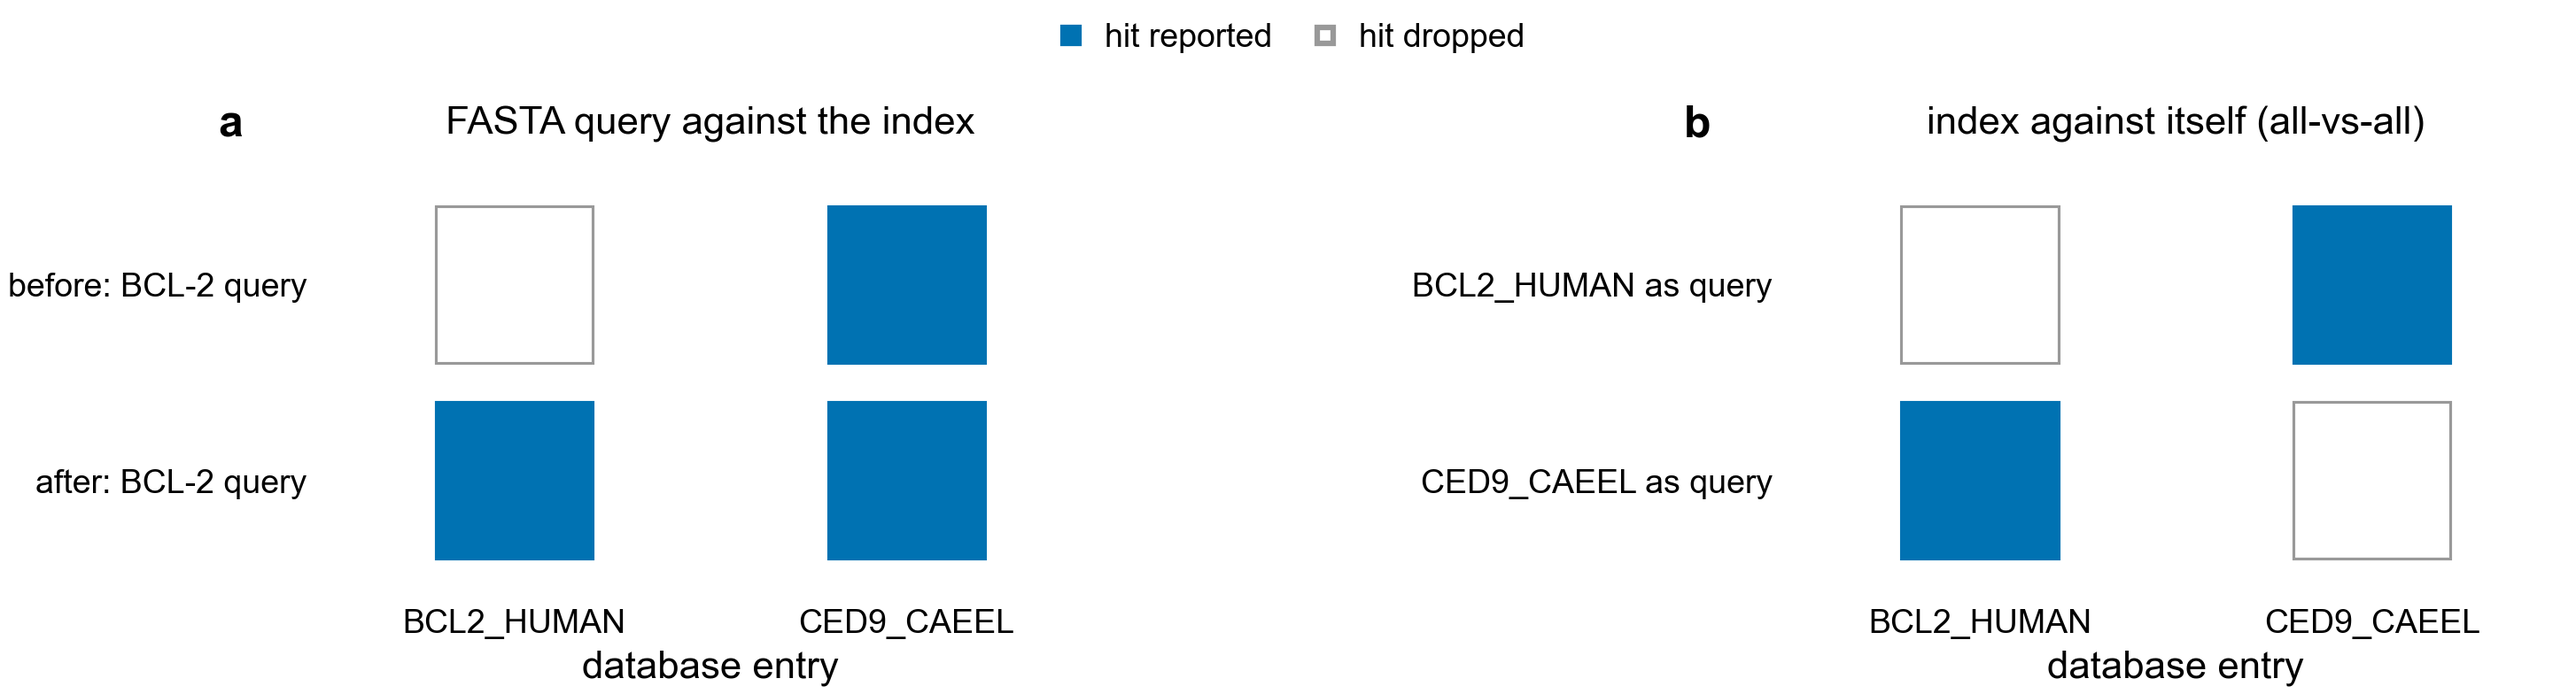
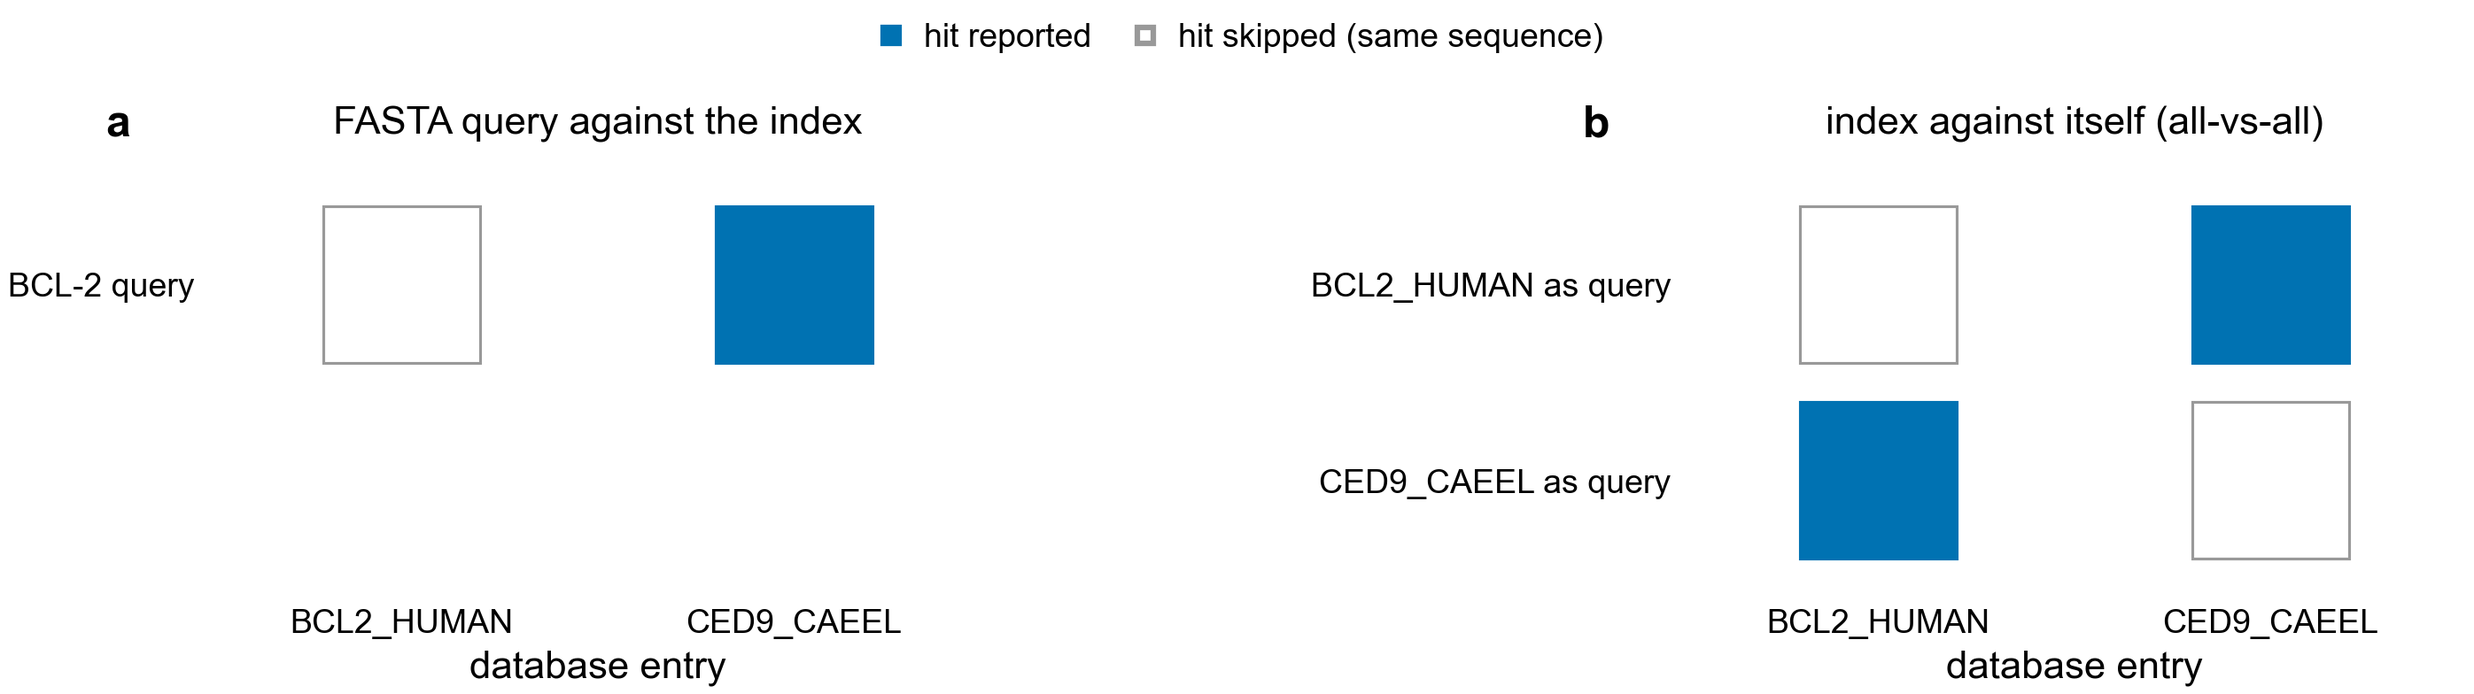
Skip a target with the query's sequence in every search
A FASTA query identical to a database entry does not hit that entry, the
same as in all-vs-all: the hit says nothing new and adds one row per
query that is in the database. This drops the opt-in
SearchFilters::skip_self_matches from the previous commit, so compare()
skips unconditionally again, and adds a test that pins it: BCL-2 against
an index of BCL-2 and Ced-9 lists only Ced-9.

diff --git a/src/rust/search.rs b/src/rust/search.rs
@@ -49,10 +49,6 @@ pub struct SearchFilters {
     /// heuristic cutoff on a ranking score, not a statistically calibrated significance
     /// threshold.
     pub min_region_score: f64,
-    /// Drop a target whose key is the query's own (same md5). On for all-vs-all searches of
-    /// one index against itself, where every query would otherwise hit itself; off when a
-    /// FASTA is searched against an index, where the query's identical entry is a real hit.
-    pub skip_self_matches: bool,
 }
 
 impl Default for SearchFilters {
@@ -73,7 +69,6 @@ impl Default for SearchFilters {
             min_shared_kmers: 0,
             max_query_pvalue: f64::INFINITY,
             min_region_score: f64::NEG_INFINITY,
-            skip_self_matches: false,
         }
     }
 }
@@ -1199,7 +1194,6 @@ impl ProteinSearcher {
             min_shared_kmers: 1,
             max_query_pvalue: f64::INFINITY,
             min_region_score: f64::NEG_INFINITY,
-            skip_self_matches: false,
         };
         queries
             .par_iter()
@@ -1606,7 +1600,7 @@ impl ProteinSearcher {
     /// method works directly with references from the index. We collect only the MD5 keys (cheap
     /// String clones) and parallelize over those, looking up the actual signatures in the DashMap.
     /// This avoids cloning the large ProteinSketch objects while still enabling parallel processing.
-    /// Each query's hit on itself is dropped (`SearchFilters::skip_self_matches`).
+    /// The method also automatically skips self-matches by comparing MD5 sums in compare().
     ///
     /// `filters` is forwarded to `search_one`, so failing results are never allocated into the
     /// returned `Vec` (see `SearchFilters`).
@@ -1650,8 +1644,6 @@ impl ProteinSearcher {
         progress.set_message("Searching all-vs-all...");
 
         let total_queries = all_queries.len();
-        // Every query is a target here, so its hit on itself is dropped.
-        let filters = &SearchFilters { skip_self_matches: true, ..*filters };
 
         // Use search_one (inverted index) for each query instead of exhaustive O(N²) iteration
         let all_results: Vec<SearchResult> = all_queries
@@ -1701,11 +1693,10 @@ impl ProteinSearcher {
         filters: &SearchFilters,
         total_queries: usize,
     ) -> Option<SearchResult> {
-        // In an all-vs-all search every query is also a target, and its hit on itself says
-        // nothing. When a FASTA is searched against an index, the query's identical entry is
-        // a real hit (BCL-2 against a database holding BCL2_HUMAN), so the skip is opt-in.
-        if filters.skip_self_matches && query.sketch.signature().md5sum == target.signature().md5sum
-        {
+        // A target with the query's key has the query's own sequence, so it is skipped in
+        // every search, not only all-vs-all: its hit says nothing new, and keeping it would
+        // add one row per query that is in the database.
+        if query.sketch.signature().md5sum == target.signature().md5sum {
             return None;
         }
 
@@ -3233,7 +3224,8 @@ mod tests {
     /// Two entries whose 5-mer sets are equal but whose sequences differ (a poly-A run of 5
     /// and of 8: both hold AAAAA and nothing else the other lacks) are two targets, each
     /// reported with its own residues and coordinates. Keyed by their k-mer set, the second
-    /// entry was dropped. The query has a run of 7, so it is neither entry. Drawn as dot plots in
+    /// entry was dropped. The query has a run of 7, so it is neither entry: a query whose
+    /// key equals a target's is skipped as a self-match. Drawn as dot plots in
     /// `docs/images/same_kmer_set_polyA5_polyA8_protein20_k5.png`
     /// (`scripts/plot_same_kmer_set_targets.py`).
     #[test]
@@ -3319,13 +3311,14 @@ mod tests {
         Ok(())
     }
 
-    /// A FASTA query identical to a database entry hits that entry: BCL-2 searched against an
-    /// index of BCL-2 and Ced-9 lists both. All-vs-all on the same index still drops each
-    /// entry's hit on itself, leaving BCL-2 against Ced-9 and Ced-9 against BCL-2. Drawn in
+    /// A query with the same sequence as a database entry does not hit that entry, whether
+    /// it comes from a FASTA file or the index is searched against itself. BCL-2 searched
+    /// against an index of BCL-2 and Ced-9 lists only Ced-9, and all-vs-all on that index
+    /// lists BCL-2 against Ced-9 and Ced-9 against BCL-2. Drawn in
     /// `docs/images/self_match_skip_bcl2_ced9_hp_lehninger2_k12.png`
     /// (`scripts/plot_self_match_skip.py`).
     #[test]
-    fn query_identical_to_an_entry_hits_it_unless_all_vs_all() -> Result<()> {
+    fn query_identical_to_an_entry_is_skipped() -> Result<()> {
         let (bcl2_name, bcl2) = read_first_fasta_record(TEST_BLC2_FASTA)?;
         let (ced9_name, ced9) = read_first_fasta_record(TEST_CED9_FASTA)?;
         let temp_dir = TempDir::new()?;
@@ -3337,9 +3330,8 @@ mod tests {
 
         let query = ProteinSketch::from_protein_sequence("bcl2", &bcl2, 12, 1, "hp_lehninger2")?;
         let results = searcher.search_one(&query, &SearchFilters::default(), 1);
-        let mut names: Vec<&str> = results.iter().map(|r| r.target_name.as_str()).collect();
-        names.sort();
-        assert_eq!(names, [bcl2_name.as_str(), ced9_name.as_str()]);
+        let names: Vec<&str> = results.iter().map(|r| r.target_name.as_str()).collect();
+        assert_eq!(names, [ced9_name.as_str()]);
 
         let all = searcher.search_all_vs_all(&SearchFilters::default())?;
         let mut pairs: Vec<(&str, &str)> =
@@ -3396,7 +3388,8 @@ mod tests {
         let temp_path = temp_dir.path();
 
         // Use BCL2 as query and CED9 as target - they should match via HP encoding
-        // BCL2 and CED9 are known to match via HP encoding.
+        // WHY: The compare() function skips self-matches by checking MD5 sums, so we
+        // need to use different proteins. BCL2 and CED9 are known to match via HP encoding.
         let query_fasta = TEST_BLC2_FASTA;
         let target_fasta = TEST_CED9_FASTA;
 
@@ -5636,7 +5629,7 @@ mod tests {
         assert!(!results.is_empty(), "a family database should match itself across members");
 
         for result in &results {
-            // search_all_vs_all() drops self-matches by md5, so no protein may match itself.
+            // compare() drops self-matches by md5, so no protein may match itself.
             assert_ne!(
                 result.query_md5, result.target_md5,
                 "self-match leaked into all-vs-all: {}",

diff --git a/scripts/plot_self_match_skip.py b/scripts/plot_self_match_skip.py
@@ -2,17 +2,12 @@
 """Draw which hits kmerseek reports for an index holding two proteins, BCL-2 (BCL2_HUMAN)
 and Ced-9 (CED9_CAEEL), at hp_lehninger2 k=12.
 
-Panel a: BCL-2 from a FASTA file searched against the index. The query has the same
-sequence as the BCL2_HUMAN entry, so their keys are equal. Before this change, compare()
-dropped any target with the query's key, so BCL2_HUMAN was missing. Now the entry is
-reported.
-
-Panel b: the index searched against itself (all-vs-all). Each entry is also a query, and its
-hit on itself is still dropped, leaving two rows.
+A target with the same sequence as the query is skipped in every search. Panel a: BCL-2
+from a FASTA file searched against the index lists only CED9_CAEEL. Panel b: the index
+searched against itself (all-vs-all) lists each protein against the other, two rows.
 
 The hits are the ones
-`cargo test --no-default-features --lib query_identical_to_an_entry_hits_it_unless_all_vs_all`
-asserts.
+`cargo test --no-default-features --lib query_identical_to_an_entry_is_skipped` asserts.
 
     python scripts/plot_self_match_skip.py \
         --output docs/images/self_match_skip_bcl2_ced9_hp_lehninger2_k12
@@ -32,8 +27,7 @@ COLUMN_STEP = 2  # wide enough that the entry names under the squares do not ove
 
 # (row label, reported per target) for each panel.
 FASTA_QUERY = [
-    ("before: BCL-2 query", [False, True]),
-    ("after: BCL-2 query", [True, True]),
+    ("BCL-2 query", [False, True]),
 ]
 ALL_VS_ALL = [
     ("BCL2_HUMAN as query", [False, True]),
@@ -41,8 +35,9 @@ ALL_VS_ALL = [
 ]
 
 
-def draw_grid(ax, rows, title):
-    """One square per (row, target): filled when reported, open when dropped."""
+def draw_grid(ax, rows, title, n_rows):
+    """One square per (row, target): filled when reported, open when skipped. `n_rows` sets
+    the vertical span, so squares are the same size in every panel."""
     for y, (_, reported) in enumerate(rows):
         for x, hit in enumerate(reported):
             ax.add_patch(
@@ -55,7 +50,7 @@ def draw_grid(ax, rows, title):
                 )
             )
     ax.set_xlim(-1, (len(TARGETS) - 1) * COLUMN_STEP + 1)
-    ax.set_ylim(len(rows) - 0.4, -0.6)
+    ax.set_ylim(n_rows - 0.4, -0.6)
     ax.set_xticks([i * COLUMN_STEP for i in range(len(TARGETS))], TARGETS)
     ax.set_yticks(range(len(rows)), [label for label, _ in rows])
     ax.set_xlabel("database entry")
@@ -73,10 +68,11 @@ def main():
 
     pf.use_style()
     fig, (a, b) = pf.figure(pf.TWO_COLUMN_MM, 45, ncols=2)
-    draw_grid(a, FASTA_QUERY, "FASTA query against the index")
-    draw_grid(b, ALL_VS_ALL, "index against itself (all-vs-all)")
+    n_rows = max(len(FASTA_QUERY), len(ALL_VS_ALL))
+    draw_grid(a, FASTA_QUERY, "FASTA query against the index", n_rows)
+    draw_grid(b, ALL_VS_ALL, "index against itself (all-vs-all)", n_rows)
     a.plot([], [], "s", color=REPORTED, label="hit reported")
-    a.plot([], [], "s", markerfacecolor="none", color=pf.GREY, label="hit dropped")
+    a.plot([], [], "s", markerfacecolor="none", color=pf.GREY, label="hit skipped (same sequence)")
     pf.shared_legend(fig)
     for ax, letter in zip((a, b), "ab"):
         pf.panel_label(ax, letter)

diff --git a/src/rust/main.rs b/src/rust/main.rs
@@ -665,6 +665,9 @@ fn main() -> IndexResult<()> {
             eprintln!("  Query is pre-indexed: {}\n---", query_is_index);
 
             use kmerseek::search::SearchFilters;
+            let filters =
+                SearchFilters { threshold, min_shared_kmers, max_query_pvalue, min_region_score };
+
             // Check if query and target are the same database (all-vs-all search)
             // WHY: RocksDB doesn't allow the same database to be opened twice by the same process.
             // When doing an all-vs-all search (query == target), we need to reuse the same database
@@ -676,16 +679,6 @@ fn main() -> IndexResult<()> {
                 query_path == target_path
             } else {
                 false
-            };
-
-            // Each entry's hit on itself is dropped only when the index is searched against
-            // itself; a FASTA query identical to an entry is a real hit.
-            let filters = SearchFilters {
-                threshold,
-                min_shared_kmers,
-                max_query_pvalue,
-                min_region_score,
-                skip_self_matches: is_all_vs_all,
             };
 
             // Load the target database
@@ -765,7 +758,7 @@ fn main() -> IndexResult<()> {
                 // Use optimized all-vs-all search that avoids cloning signatures
                 // WHY: When query == target, we can use a specialized method that works directly
                 // with references from the index, avoiding expensive clones. This is much more
-                // memory-efficient for large databases, and it skips each entry's hit on itself.
+                // memory-efficient for large databases and automatically skips self-matches.
                 eprintln!(
                     "Detected all-vs-all search (query == target), using optimized search method..."
                 );
